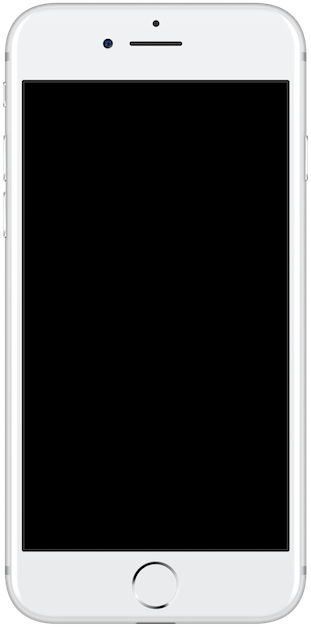
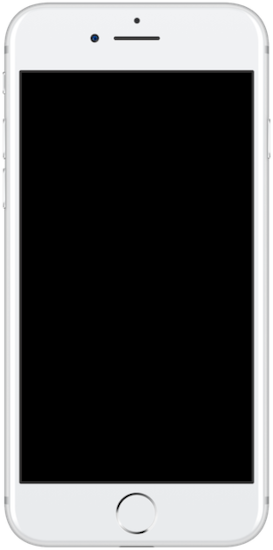
atualizado

Changed region(s): [[0.9084, 0.1236, 0.9377, 0.8655], [0.0586, 0.1236, 0.0879, 0.8655]]

diff --git a/estilos/style.css b/estilos/style.css
@@ -1,0 +1,32 @@
+@charset "UTF-8";
+
+* {
+    margin: 0px;
+    padding: 0px;
+    font-family: Arial, Helvetica, sans-serif;
+}
+html, body {
+    height: 100vh;
+    width: 100vw;
+    background-color: black;
+}
+body {
+    background: url('../imagens/fundo-madeira.jpg') no-repeat top center;
+    background-size: cover;
+    background-attachment: fixed;
+}
+main {
+    display: flex;
+    justify-content: center;
+    align-items: center;
+}
+section#telefone {
+    position: absolute;
+    top: 50%;
+    left: 50%;
+    transform: translate(-50%, -50%);
+
+    height: 550px;
+    width: 273px;
+    background: url('../imagens/frame-iphone.png') no-repeat;
+}

diff --git a/index.html b/index.html
@@ -4,9 +4,17 @@
     <meta charset="UTF-8">
     <meta name="viewport" content="width=device-width, initial-scale=1.0">
     <link rel="shortcut icon" href="favicon.ico" type="image/x-icon">
+    <link rel="stylesheet" href="estilos/style.css">
     <title>Projetos Redes Sociais</title>
 </head>
 <body>
-    <h1>Olá, Mundo!</h1>
+    <main>
+        <section id="telefone">
+
+        </section>
+        <section id="redes-sociais">
+
+        </section>
+    </main>
 </body>
 </html>
